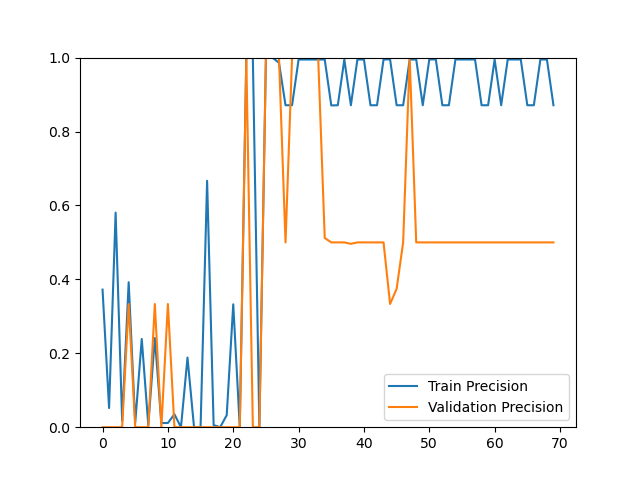
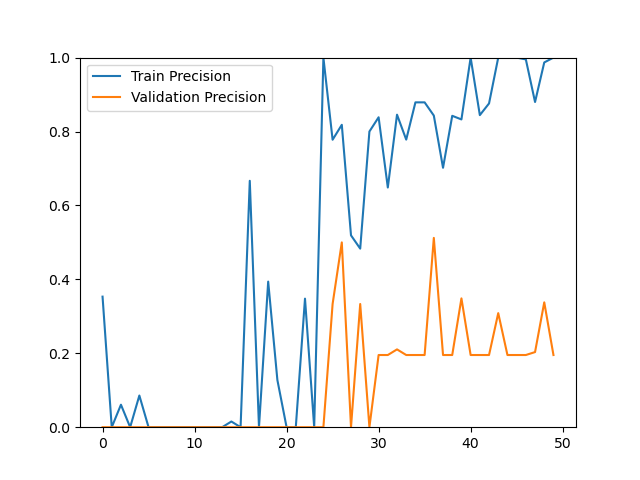
LSTM with layer 2 50 epoch .0045 lr .3 dropout

diff --git a/LSTM.py b/LSTM.py
@@ -139,7 +139,7 @@ def trainLoop(model, epochs, training_data, testing_data, optimizer, criterion, 
             model.train()
             optimizer.zero_grad()
 
-            inputs = normalize(inputs, p=1.0, dim=0)
+            inputs = normalize(inputs, p=2.0, dim=0)
             outputs = model(inputs)
             outputs = outputs.to(torch.float32)
             labels = labels.to(torch.float32)
@@ -192,7 +192,7 @@ def trainLoop(model, epochs, training_data, testing_data, optimizer, criterion, 
         with torch.no_grad():
             for inputs, labels in testing_data:
                 total_validation_records += labels.size(0)
-                inputs = normalize(inputs, p=1.0, dim=0)
+                inputs = normalize(inputs, p=2.0, dim=0)
                 outputs = model(inputs)
                 outputs = outputs.to(torch.float32)
                 labels = labels.to(torch.float32)
@@ -285,9 +285,9 @@ def formatAndFold():
     labels_train = dataset['Class'].values
 
     # critical hyperparameters
-    epoch = 70
-    ksplits = 3
-    learning_rate = 0.004
+    epoch = 50
+    ksplits = 4
+    learning_rate = 0.0045
 
     # Initialize the model and optimizer
     model = LSTM(1024, 2)
